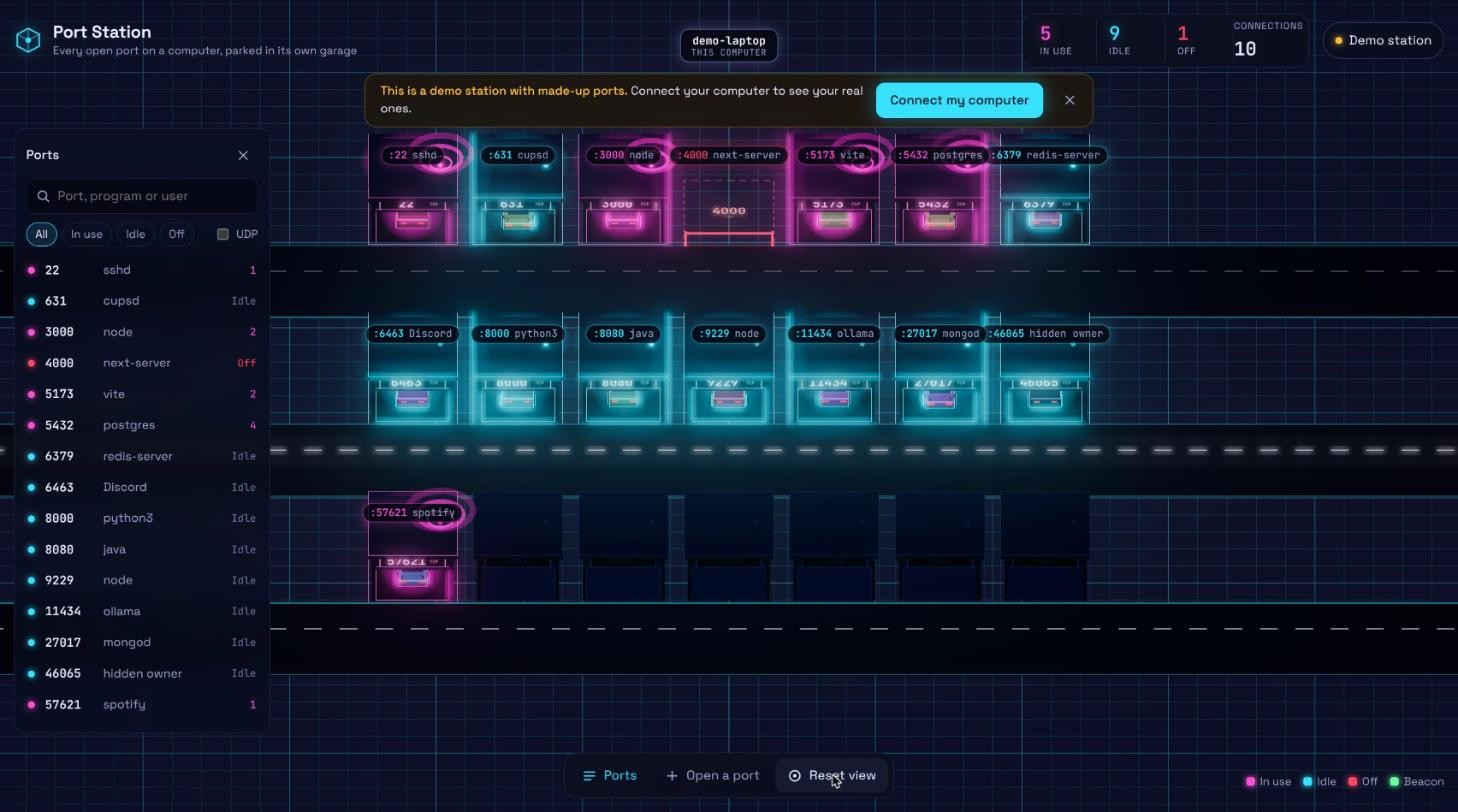
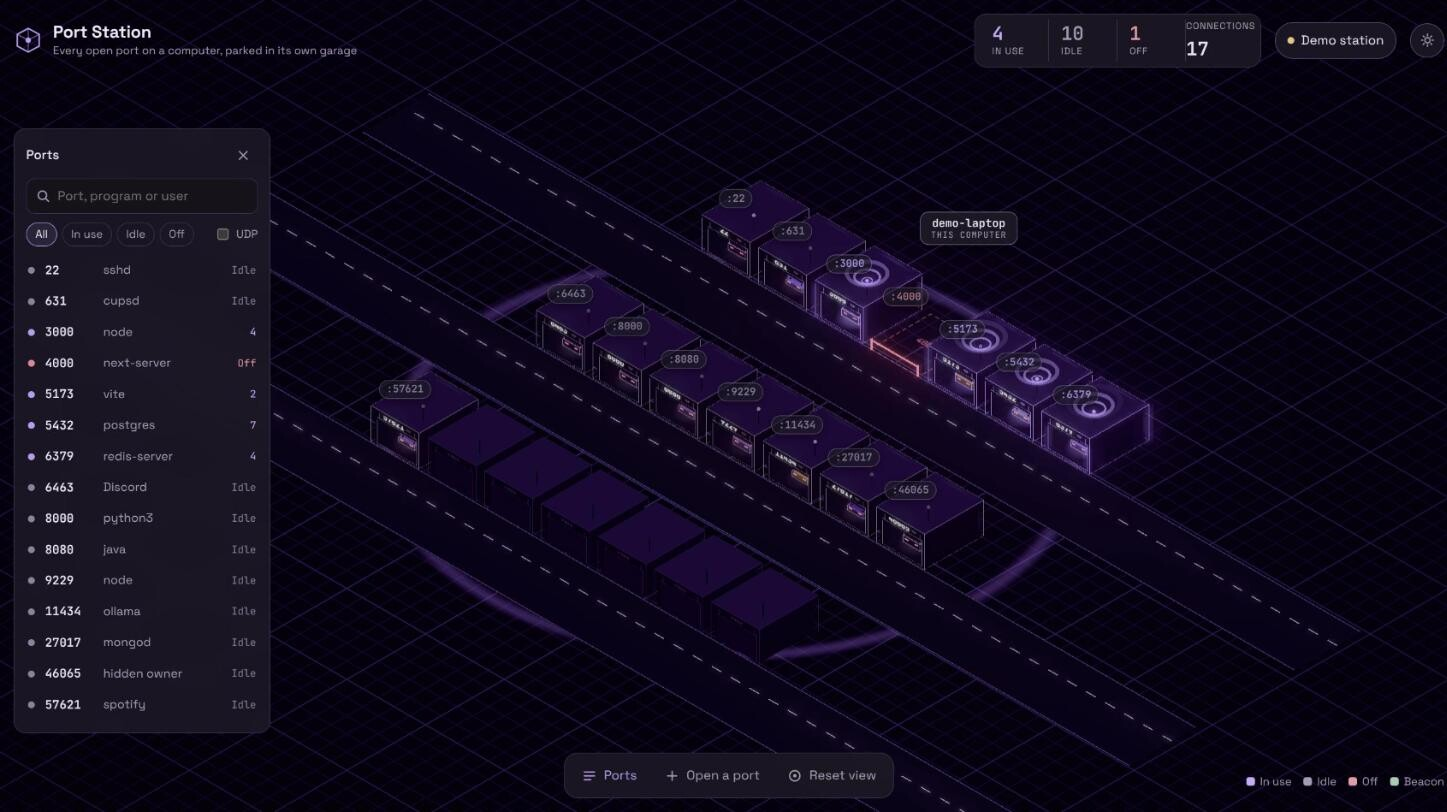
new ss

diff --git a/README.md b/README.md
@@ -2,7 +2,7 @@
 
 See every open port on your computer as a street of garages. Each port has its own garage with the port number over the door, and a car parks inside while the port is open. You can see which ports are busy and which are idle, which program owns each one and who is connected to it, and you can switch any of them off and back on.
 
-![Port Station showing a demo computer: rows of neon garages along streets, each with a port number over the door and a car parked inside, pink garages with signal rings for busy ports, cyan for idle ones, an empty red pad where a switched-off port's garage flew away, and the Ports list on the left](docs/screenshot.jpg)
+![Port Station showing a demo computer: rows of neon garages along streets, each with a port number over the door and a car parked inside, glowing violet garages with signal rings for busy ports, dim ones for idle ports, a row of empty spare garages, an empty red pad where a switched-off port's garage flew away, and the Ports list on the left](docs/screenshot.jpg)
 
 ## What you see
 
